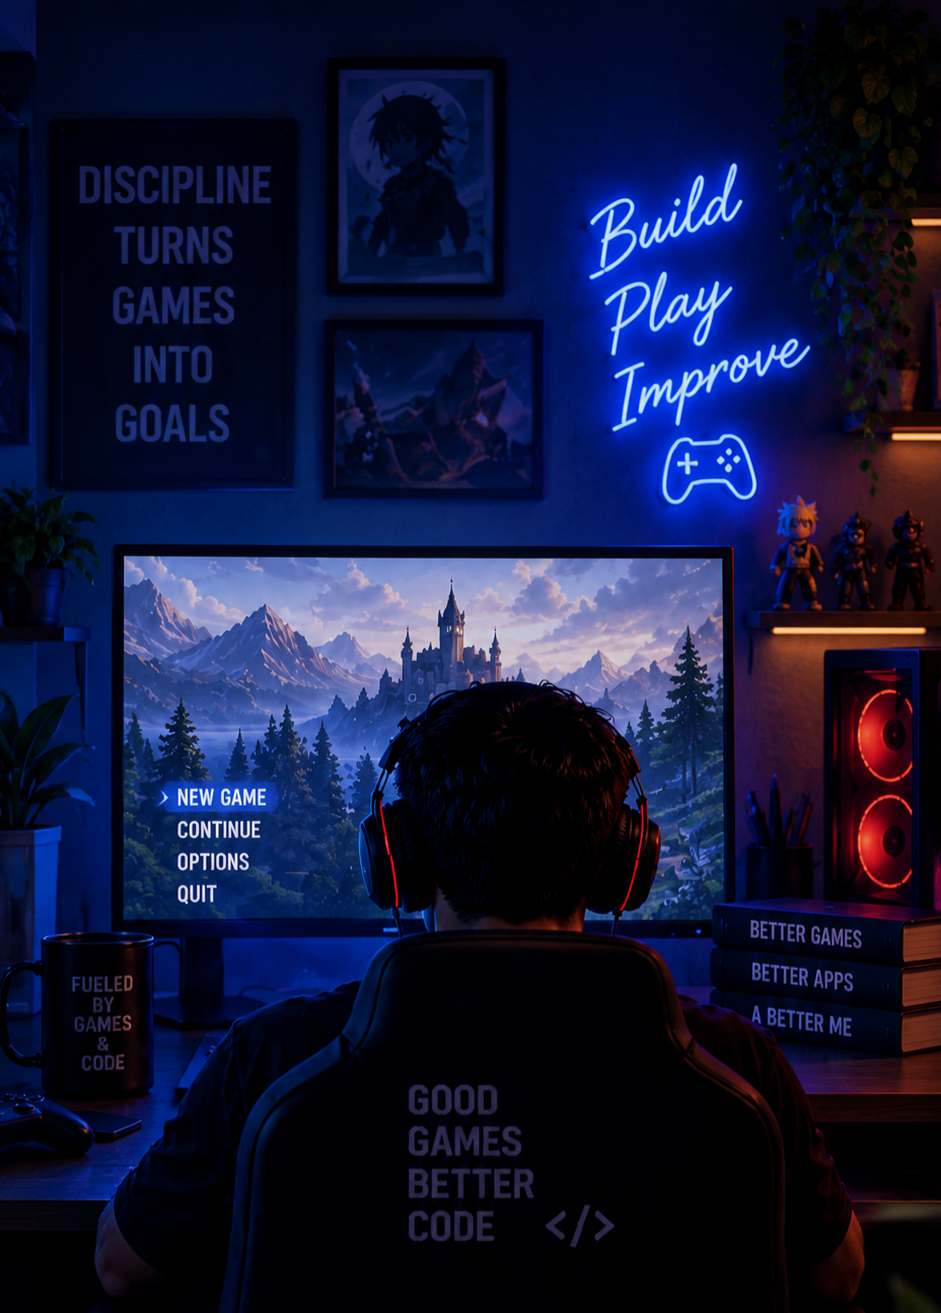
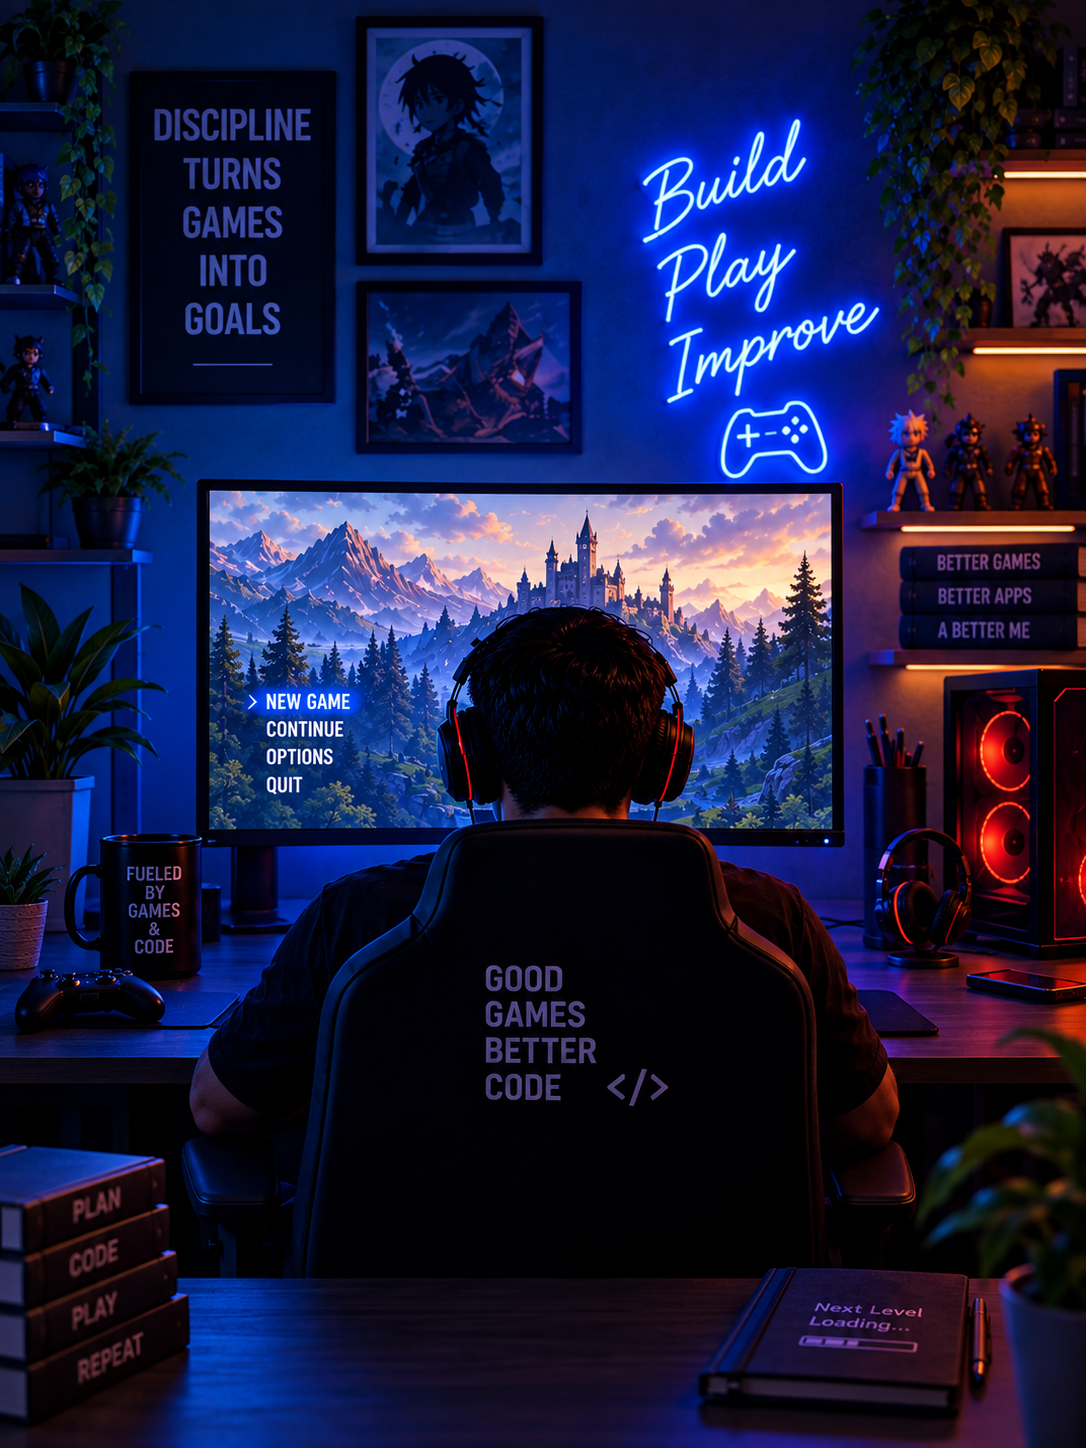
feat: Enhance Hero component navigation and add hidden element for accessibility

diff --git a/client/src/components/Hero.jsx b/client/src/components/Hero.jsx
@@ -1,7 +1,17 @@
 import React from 'react';
 import './Hero.css';
 
-const Hero = () => {
+const Hero = ({ onNavigate }) => {
+  const handleViewWork = (e) => {
+    e.preventDefault();
+    const el = document.getElementById('projects') || document.getElementById('work');
+    if (el) {
+      el.scrollIntoView({ behavior: 'smooth' });
+    } else if (onNavigate) {
+      onNavigate('home', 'projects');
+    }
+  };
+
   return (
     <section className="hero-section" id="home">
       <div className="hero-overlay"></div>
@@ -17,7 +27,7 @@ const Hero = () => {
             A developer who loves building things<br />
             and playing games.
           </p>
-          <a href="#work" className="hero-btn">
+          <a href="#projects" onClick={handleViewWork} className="hero-btn">
             VIEW MY WORK &rarr;
           </a>
           <div className="hero-breadcrumb">

diff --git a/client/src/components/FeaturedProjects.jsx b/client/src/components/FeaturedProjects.jsx
@@ -34,6 +34,7 @@ const FeaturedProjects = ({ onSelectProject }) => {
 
   return (
     <section id="projects" className="featured-projects-section">
+      <span id="work" style={{ display: 'block', position: 'relative', top: '-75px', visibility: 'hidden' }}></span>
       <div className="projects-container">
         <div className="projects-header-wrapper">
           <div className="projects-header-left">

diff --git a/client/src/App.jsx b/client/src/App.jsx
@@ -144,7 +144,7 @@ function App() {
         </main>
       ) : (
         <main>
-          <Hero />
+          <Hero onNavigate={handleNavigate} />
           <FeaturedProjects onSelectProject={handleSelectProject} />
           <AboutSkillsAchievements />
           <ContactCTA onNavigate={handleNavigate} />
